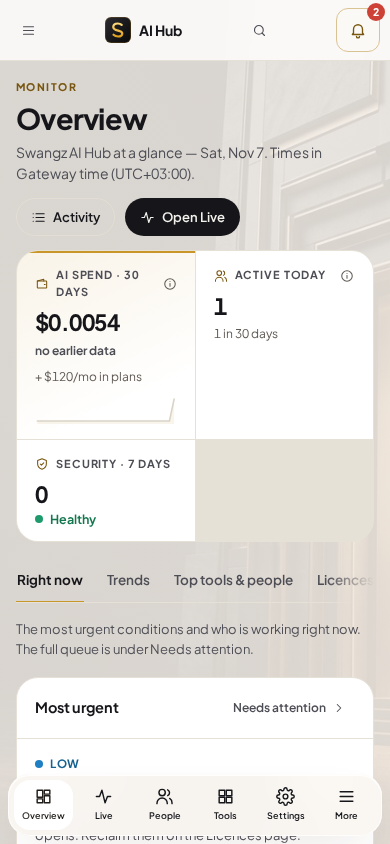
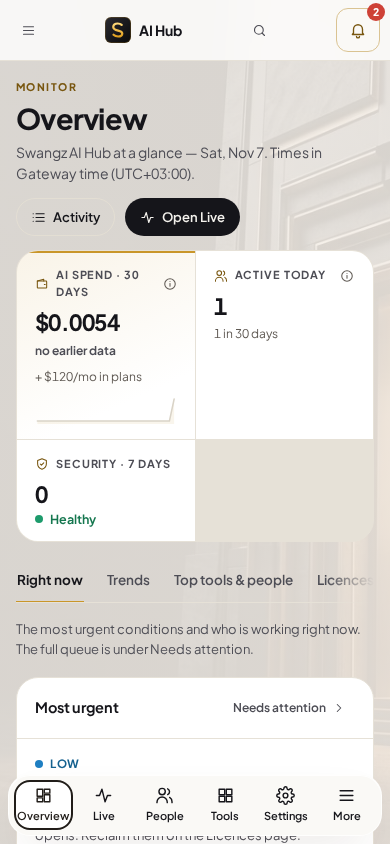
Fix navigation discovery, stable focus and overlay readability

diff --git a/gateway/static/admin.js b/gateway/static/admin.js
@@ -758,7 +758,7 @@
   }
   function railTip(e) {
     const side = e.currentTarget, owner = e.target.closest("[data-tip]");
-    if (!side.classList.contains("compact") || !owner) return;
+    if (!owner || (!side.classList.contains("compact") && !owner.classList.contains("rail-toggle"))) return;
     requestAnimationFrame(() => {
       const tip = document.getElementById("u-tip");
       if (!owner.isConnected || !tip?.classList.contains("in") || (document.activeElement !== owner && !owner.matches(":hover"))) return;
@@ -772,6 +772,11 @@
   function sidebar(active, onNavigate, drawer = false) {
     const labelled = drawer || navLabels();
     const folded = foldedGroups();
+    const groupCount = links => {
+      const counts = links.map(([href]) => navCounts(href)).filter(Boolean);
+      const n = counts.reduce((sum, node) => sum + Number(node.textContent.trim()), 0);
+      return n ? el("span", { class: "count " + (counts.some(n => n.classList.contains("bad")) ? "bad" : counts.some(n => n.classList.contains("warn")) ? "warn" : "live"), "aria-label": n + " indicators" }, String(n)) : null;
+    };
     const navLink = (href, label, ic, group) => {
       const count = navCounts(href);
       return el("a", { href, class: href === active ? "on" : null, "aria-current": href === active ? "page" : null,
@@ -785,7 +790,7 @@
       const listId = (drawer ? "drawer-nav-" : "nav-") + group.toLowerCase();
       const items = el("div", { class: "nav-links", id: listId, hidden: !open },
         links.map(([href, label, ic]) => navLink(href, label, ic, group)));
-      const label = [el("span", { class: "gt-l" }, group), el("span", { class: "gt-about" }, about)];
+      const label = [el("span", { class: "gt-l" }, group), el("span", { class: "gt-about" }, about), groupCount(links)];
       // the group holding the page you're on stays open, so its heading is a plain label
       const heading = holdsActive ? el("div", { class: "group-toggle static" }, label) : el("button", { class: "group-toggle", type: "button", "aria-expanded": open ? "true" : "false", "aria-controls": listId,
         onclick: () => {
@@ -817,15 +822,23 @@
         el("button", { class: "side-search", type: "button", onclick: () => openCommand(), "aria-label": "Search or jump to a page", "data-tip": "Search or jump to a page" }, icon("search"), el("span", null, "Search…"),
           el("span", { class: "u-kbd" }, navigator.platform && /Mac/.test(navigator.platform) ? "⌘K" : "Ctrl K")),
         bell()),
+      el("button", { class: "rail-pages", type: "button", "aria-label": "All pages and account controls", "aria-haspopup": "dialog", onclick: () => openDrawer(active) }, icon("menu"), el("span", null, "All pages"), groupCount(NAV.filter(([g]) => g === "Trust").flatMap(([,links]) => links))),
+      el("div", { class: "rail-groups", "aria-label": "Jump to an area" }, NAV.map(([group,links]) => el("button", { type: "button", "data-tip": group, "aria-label": "Show " + group + " pages", onclick: () => {
+        const target = nav.querySelector("#" + (drawer ? "drawer-nav-" : "nav-") + group.toLowerCase());
+        if (target.hidden) target.previousElementSibling.click();
+        nav.scrollTop += target.parentElement.getBoundingClientRect().top - nav.getBoundingClientRect().top;
+        target.querySelector("a")?.focus();
+      } }, el("span", null, group === "Reporting" ? "Reports" : group), groupCount(links)))),
       nav,
+      el("button", { class: "rail-scroll", type: "button", "aria-label": "Scroll to more pages", onclick: () => { nav.scrollTop += Math.max(88, nav.clientHeight / 2); } }, "More ↓"),
       el("nav", { class: "rail-foot nav", "aria-label": "Help and settings", onkeydown: navKeys },
         el("a", { href: "/#/privacy", target: "_blank", rel: "noopener", "aria-label": "Help (opens in a new tab)", "data-tip": "Help · opens in a new tab" }, icon("info"), el("span", { class: "nl" }, "Help")),
         navLink("#/settings", "Settings", "settings")),
       can("emergency") ? el("div", { class: "estop" + (paused ? " on" : "") },
         paused ? [el("div", { class: "estop-t" }, SUI.status("blocked", "AI paused"), el("span", null, "for everyone")),
-          el("button", { class: "btn small primary", "aria-label": "Resume AI access", "data-tip": "Resume AI access", onclick: () => setPaused(false) }, icon("play"), el("span", null, "Resume"))]
+          el("button", { class: "btn small primary", "aria-label": "Resume AI access", "data-tip": "Resume AI access", onclick: async () => { if (onNavigate) await onNavigate(); setPaused(false); } }, icon("play"), el("span", null, "Resume"))]
           : [el("div", { class: "estop-t" }, el("span", { class: "u-label" }, "Emergency"), el("span", null, "Cut every request now")),
-            el("button", { class: "btn small danger", "aria-label": "Stop all AI", "data-tip": "Stop all AI", onclick: () => setPaused(true) }, icon("stop"), el("span", null, "Stop all AI"))]) : null,
+            el("button", { class: "btn small danger", "aria-label": "Stop all AI", "data-tip": "Stop all AI", onclick: async () => { if (onNavigate) await onNavigate(); setPaused(true); } }, icon("stop"), el("span", null, "Stop all AI"))]) : null,
       el("div", { class: "who" }, SUI.avatar(S.me.username),
         el("div", { class: "id" }, el("strong", null, S.me.username), el("span", null, roleLabel() + (isOwner() || (S.me.can || []).length ? "" : " · read-only"))),
         SUI.themeButton(),
@@ -844,13 +857,13 @@
 
   function refreshSidebar(side) {
     const focused = side.contains(document.activeElement) ? document.activeElement : null;
-    const href = focused?.getAttribute("href"), label = focused?.getAttribute("aria-label");
+    const href = focused?.getAttribute("href"), label = focused?.getAttribute("aria-label"), control = focused?.getAttribute("aria-controls");
     const scroll = side.querySelector(".nav:not(.rail-foot)")?.scrollTop || 0;
     const next = sidebar(side.querySelector("a.on")?.getAttribute("href") || "#/");
     side.replaceWith(next);
     requestAnimationFrame(() => {
       next.querySelector(".nav:not(.rail-foot)").scrollTop = scroll;
-      if (focused) [...next.querySelectorAll("a,button")].find(n => href ? n.getAttribute("href") === href : n.getAttribute("aria-label") === label)?.focus({ preventScroll: true });
+      if (focused) [...next.querySelectorAll("a,button")].find(n => href ? n.getAttribute("href") === href : control ? n.getAttribute("aria-controls") === control : label !== null && n.getAttribute("aria-label") === label)?.focus({ preventScroll: true });
     });
   }
 
@@ -886,6 +899,7 @@
   }
 
   function openDrawer(active) {
+    if (document.querySelector(".side.drawer")) return;
     const scrim = el("div", { class: "scrim" });
     const side = sidebar(active, () => close(), true);
     side.classList.add("drawer");
@@ -894,14 +908,15 @@
     side.setAttribute("aria-label", "Navigation");
     const closeBtn = el("button", { class: "btn quiet icon-only drawer-close", type: "button", "aria-label": "Close navigation", onclick: () => close() }, icon("x"));
     side.prepend(closeBtn);
-    let closed = false;
+    let closed = false, closing;
     const release = SUI.trapFocus(side);
     function close() {
-      if (closed) return;
+      if (closed) return closing;
       closed = true;
       side.classList.remove("in"); scrim.classList.remove("in");
       document.removeEventListener("keydown", onKey);
-      setTimeout(() => { side.remove(); scrim.remove(); if (release) release(); }, 260);
+      closing = new Promise(resolve => setTimeout(() => { side.remove(); scrim.remove(); if (release) release(); resolve(); }, 260));
+      return closing;
     }
     function onKey(e) { if (e.key === "Escape") close(); }
     scrim.addEventListener("click", close);

diff --git a/gateway/static/admin.css b/gateway/static/admin.css
@@ -1162,3 +1162,34 @@ button.group-toggle:hover .gt-l, button.group-toggle:hover > svg { color: var(--
 body:has(.side.drawer) .rail-mobile { visibility: hidden; }
 body:has(.side.drawer) .appbar, .scrim { -webkit-backdrop-filter: none; backdrop-filter: none; }
 .side .theme-btn { border-radius: var(--radius-pill); border-color: transparent; background: transparent; }
+
+/* R2 review corrections: explicit area access and inexpensive tinted navigation. */
+.side, .side.drawer, .rail-mobile { -webkit-backdrop-filter: none; backdrop-filter: none; }
+.side.compact .side-tools, .side.compact .who { display: none; }
+.rail-pages, .rail-scroll { flex: none; min-height: 44px; border: 1px solid var(--glass-rim); border-radius: var(--radius-pill); background: transparent; color: var(--tx-1); cursor: pointer; font: 600 11px/1.4 var(--font); }
+.rail-pages { position: relative; display: flex; flex-direction: column; align-items: center; justify-content: center; gap: 3px; padding: 6px 0; }
+.rail-pages svg { width: 18px; height: 18px; }
+.side.expanded .rail-pages { display: none; }
+.rail-pages .count { position: absolute; top: -2px; right: -2px; }
+.rail-groups { display: grid; grid-template-columns: repeat(5,minmax(0,1fr)); gap: 2px; }
+.side.compact .rail-groups { display: none; }
+.rail-groups button { position: relative; min-height: 44px; min-width: 0; padding: 3px 0; background: var(--ink-2); border: 1px solid var(--line-hi); border-radius: 8px; color: var(--tx-1); font: 600 10px/1.5 var(--font); cursor: pointer; }
+.rail-groups .count { position: absolute; top: -7px; right: -2px; height: 16px; padding: 0 3px; font-size: 10px; }
+.side > .nav:not(.rail-foot) { overflow-y: scroll; scrollbar-color: var(--tx-3) var(--ink-2); scrollbar-gutter: stable; }
+.side > .nav:not(.rail-foot)::-webkit-scrollbar { width: 6px; }
+.side > .nav:not(.rail-foot)::-webkit-scrollbar-thumb { background: var(--tx-3); border-radius: 6px; }
+.side > .nav:not(.rail-foot)::-webkit-scrollbar-track { background: var(--ink-2); }
+.side.compact .nav a .count.bad { background: var(--bad); color: var(--on-bad); }
+.side.compact .nav a .count.warn { background: var(--warn); color: var(--on-primary); }
+.side .nav a.on, .rail-mobile [aria-current=page], .rail-mobile .on { box-shadow: inset 0 0 0 2px var(--rail-on-selected); }
+.side .estop .btn { min-height: 44px; }
+.rail-mobile :is(a,button) { font-size: 11px; }
+/* The full labelled navigator is available from the desktop rail as well. */
+.side.drawer { display: flex; position: fixed; left: 0; top: 0; bottom: 0; margin: 0; height: 100dvh; width: min(360px,94vw); padding: 12px; border-radius: 0 24px 24px 0; z-index: calc(var(--z-sheet) + 1); transform: translateX(-100%); transition: transform var(--dur-2) var(--ease-out); }
+.side.drawer.in { transform: none; }
+.side.drawer .brand { justify-content: flex-start; padding-right: 36px; }
+.side.drawer .drawer-close { position: absolute; top: 10px; right: 8px; min-height: 44px; width: 44px; padding: 0; }
+@media (prefers-reduced-motion: reduce) { .side.drawer { transition: none; } }
+/* Overlay navigation must obscure underlying text when blur is disabled. */
+.side.drawer, .rail-mobile { background: var(--ink-2); }
+@media (forced-colors: active) { .side.drawer, .rail-mobile { background: Canvas; } }

diff --git a/docs/screenshots/glass-r2/README.md b/docs/screenshots/glass-r2/README.md
@@ -73,3 +73,65 @@ independent QA must cover the refreshed head; old verdicts do not transfer.
 R4 remains at `8cdc8ea` and its `ui.css` ownership is explicitly released to
 Chief/Forge. R4 integration is not verified while corrected dependency #40 is
 pending. This refresh did not change or merge the R4 worktree.
+
+## Probe review corrections — 7 November, 17:08 task
+
+Probe's BLOCKED findings on `ca834fc` apply to unchanged navigation at `dcb058e`.
+This correction does not transfer or imply independent approval.
+
+- Compact navigation moves search/bell/theme/sign-out into the full navigator,
+  reached through an explicit **All pages** control. It summarises Trust indicators
+  even while their destination is offscreen. Labelled/phone navigation has five
+  pinned area shortcuts with aggregate server-derived indicator badges. All
+  destinations remain in the scroll region, with a visible More cue and scrollbar.
+  Indicator sums are not unique incident/person counts.
+- Focus restoration matches a toggle's stable `aria-controls` before its label;
+  an unlabeled toggle can no longer match another unlabeled button.
+- White selection discs have a dark inset state ring. The measured ring-to-disc
+  contrast is **16.7404:1**. Red incident severity is retained rather than recoloured
+  amber. Labels-toggle tooltips sit beyond the rail instead of covering the brand.
+- Phone navigation labels are 11px. Emergency actions have at least 44px height.
+  The navigator closes before invoking the existing confirmation/resume behavior;
+  this prevents its focus trap competing with the confirmation dialog. No endpoint,
+  authorization, backend pause semantics or confirmation wording changed.
+- Live backdrop blur is removed from navigation. The side rail keeps its warm
+  tint/rim/shadow over imagery; drawer and fixed phone bar are opaque so underlying
+  text cannot bleed through. This is a deliberate performance/readability difference
+  from the reference's live frosted overlay.
+
+### Fresh targeted evidence
+
+With `UI_TOOLING` set to the same existing pinned tooling directory above:
+
+- `node docs/screenshots/glass-r2/check.cjs`: `PASS 75 navigation checks;
+  8 screenshots; 6 axe scans`, exit 0. Four required viewport/theme screenshots
+  were regenerated; mobile drawer/bar screenshots inspected for opacity/readability.
+- `node docs/screenshots/glass-r2/review.cjs`: `PASS 23 review regression checks`,
+  exit 0. Covers 1366×768 pinned area access, offscreen incident summary/red severity,
+  Trust focus after 16.5s, tooltip placement, ring contrast, no rail blur, 44px phone
+  action and real fake-gateway cancel → unchanged state, confirm → paused,
+  resume → active. The incident indicator is explicit synthetic client test state;
+  pause state is verified through the fake gateway API. No real accounts/providers.
+- `UI_WIDTH=1440 UI_THEME=light UI_PAGES_ONLY=1 UI_OUTPUT=/tmp/prism-r2-correction-desktop node tests/browser/check.cjs` and a separate `UI_WIDTH=390 UI_THEME=dark UI_PAGES_ONLY=1 UI_OUTPUT=/tmp/prism-r2-correction-phone` run (existing `NODE_PATH` tooling): each passed 27 interaction assertions and 25 screens, exit 0. Total 54 assertions/50 screens, no exceptions or axe findings; only the deliberate Studio 400. Results: `correction-regression-results.json`.
+- `python3 -m unittest tests.test_browser_profiles tests.test_portal tests.test_hub`: `Ran 99 tests in 32.166s`, `OK`, exit 0. Fake-fixture socket ResourceWarnings appeared without failures.
+- `python3 tests/browser/syntax.py`: `Checked 23 JavaScript files`, exit 0.
+- `git diff --check` and a SHA-256 comparison of final CSS/JS against the performance snapshot passed.
+
+### Comparative performance (bounded and mixed)
+
+`node docs/screenshots/glass-r2/performance.cjs` runs the same six-route rAF workload
+at 1366×768 against main `f898ebf`, reviewed R2 `dcb058e` and snapshotted corrected
+CSS/JS. Three interleaved rounds share the same synthetic fixture and browser;
+`performance-results.json` includes samples and corrected-source SHA-256 hashes.
+
+| Variant | Median number of frames >50ms | Median longest frame |
+| --- | ---: | ---: |
+| Main | 3 | 100.1ms |
+| Reviewed R2 | 9 | 100.1ms |
+| Corrected R2 | 4 | 116.6ms |
+
+The count improves; the longest-frame median does not. These measurements are
+not Probe's original unavailable script, do not reproduce its original absolute
+numbers, and do not establish 60fps or eliminate scheduling noise/other builders.
+No MotionScore or device-performance claim. Renewed independent judgment of the
+performance gate is required; no extra sampling is used to hide the mixed result.
